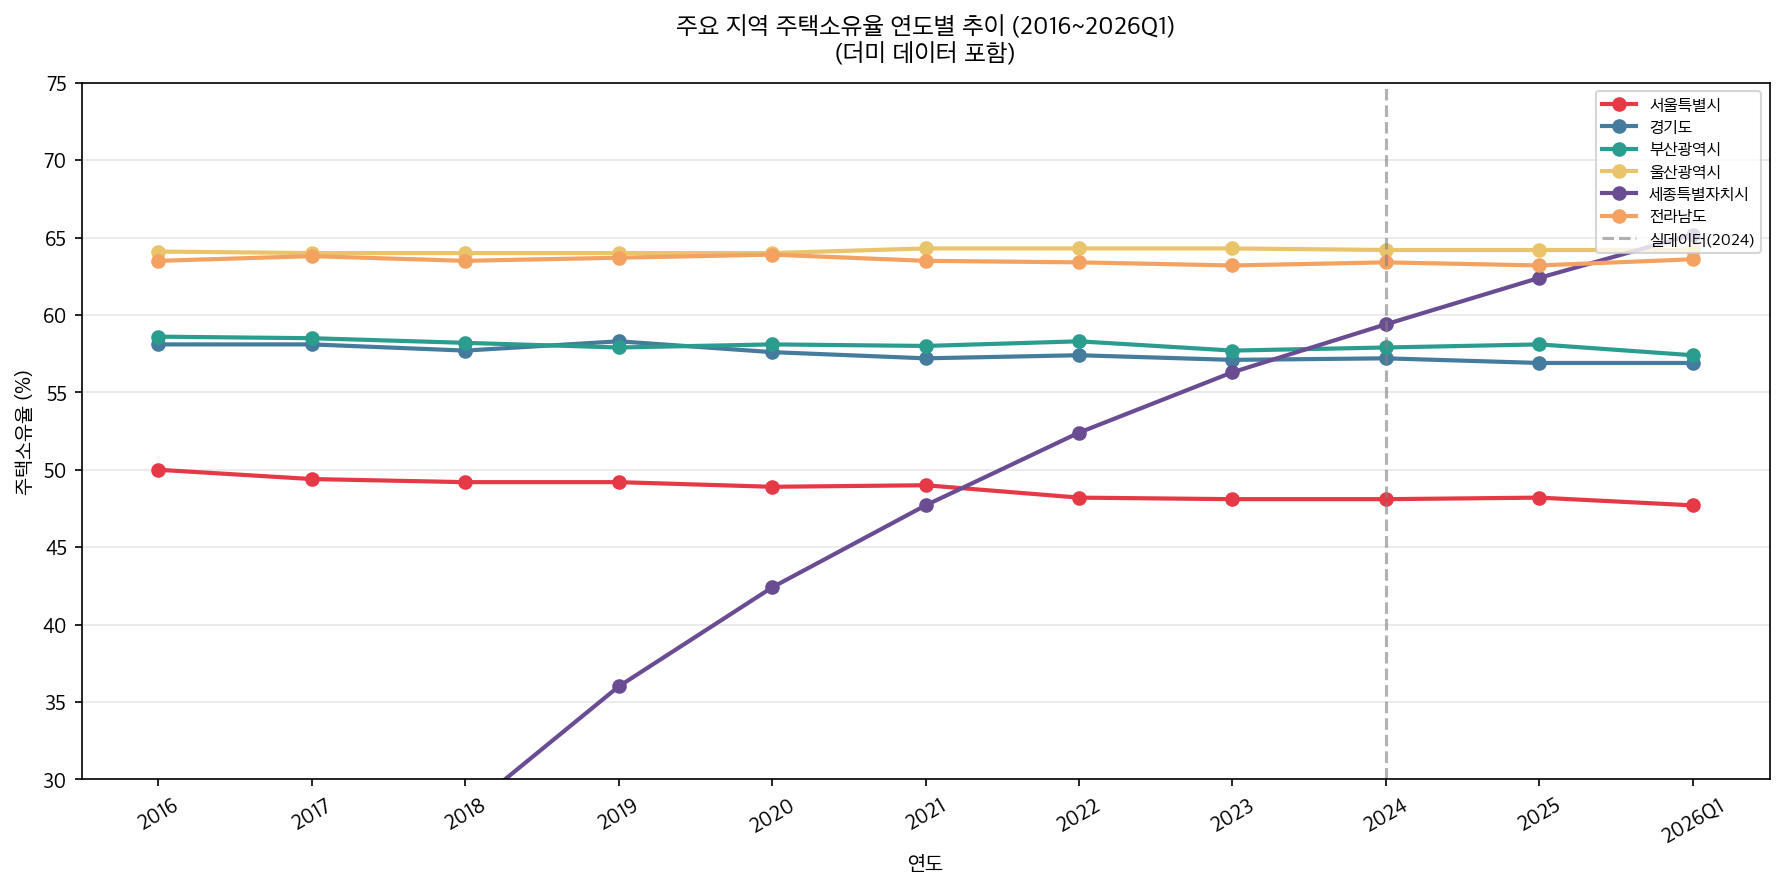
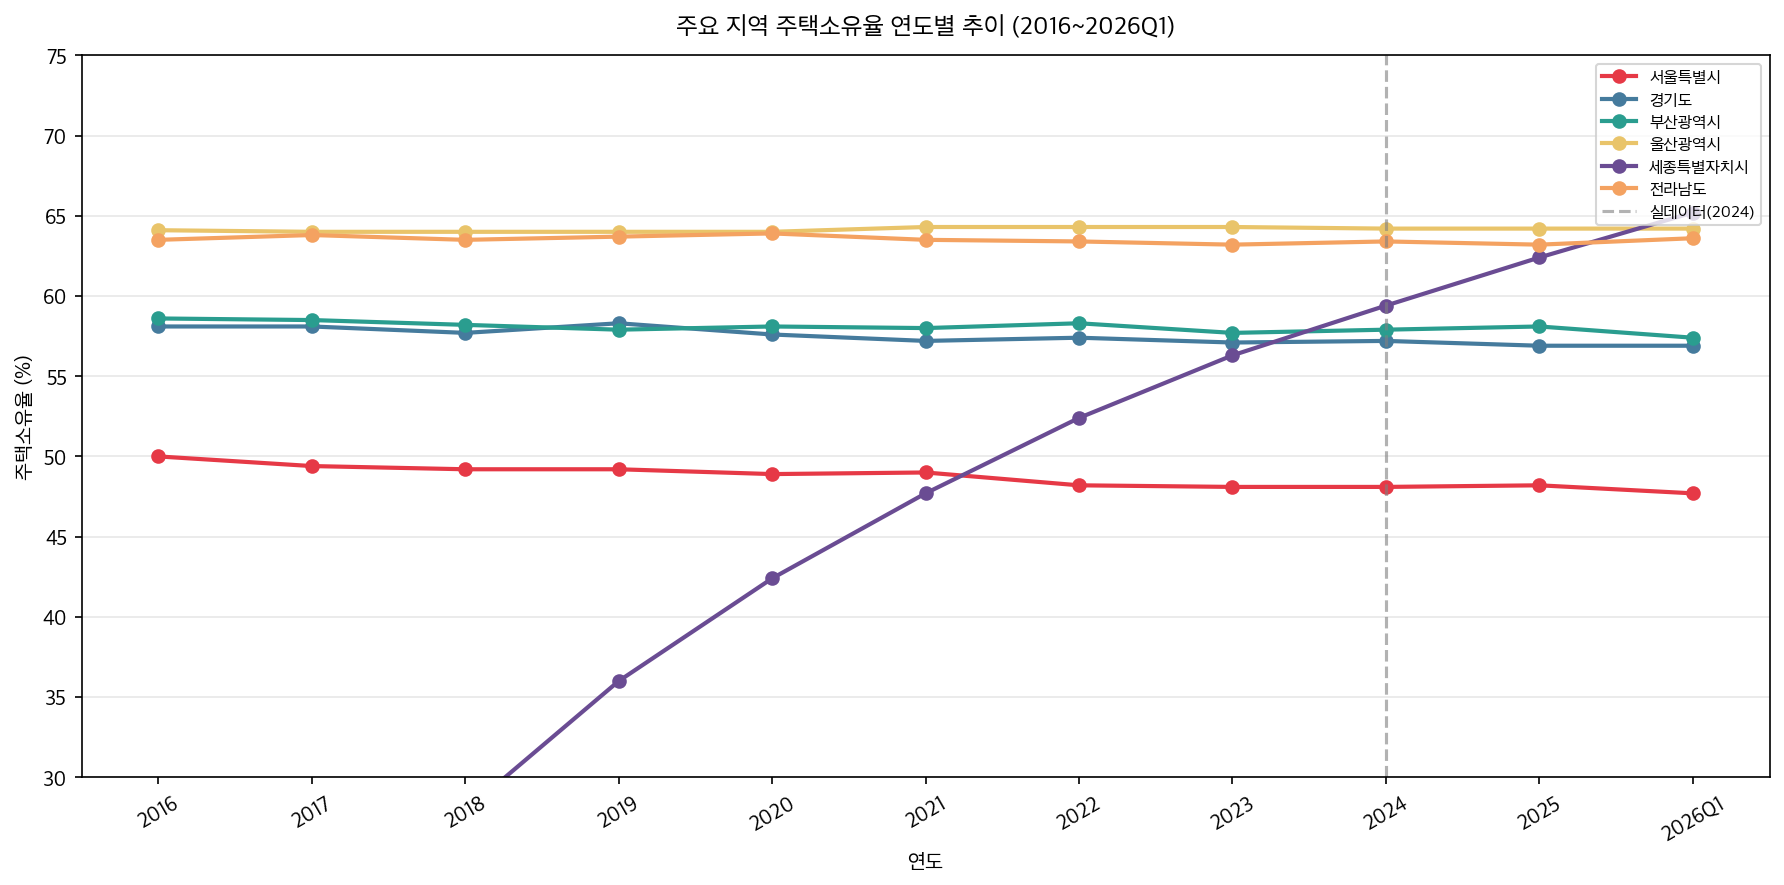
fix: 시각화 차트 제목에서 "더미 데이터" 문구 제거

diff --git a/housing/housing_eda.py b/housing/housing_eda.py
@@ -231,7 +231,7 @@ ax1.bar(x, merged["값_own"] / 1e6, label="주택소유", color="#457B9D", alpha
 ax1.bar(x, merged["값_no"]  / 1e6, bottom=merged["값_own"] / 1e6,
         label="무주택", color="#E07B54", alpha=0.85)
 ax1.set_ylabel("가구 수 (백만)")
-ax1.set_title("2016~2026Q1 전국 주택소유 vs 무주택 가구 수 추이\n(더미 데이터 포함)", pad=10)
+ax1.set_title("2016~2026Q1 전국 주택소유 vs 무주택 가구 수 추이", pad=10)
 ax1.legend()
 ax1.yaxis.set_major_formatter(plt.FuncFormatter(lambda v, _: f"{v:.1f}M"))
 ax2.plot(x, merged["소유율(%)"], marker="o", color="#2A9D8F", linewidth=2)
@@ -264,7 +264,7 @@ fig, ax = plt.subplots(figsize=(16, 8))
 sns.heatmap(hm, annot=True, fmt=".1f", cmap="RdYlGn", ax=ax,
             cbar_kws={"label": "소유율 (%)"}, linewidths=0.3,
             vmin=40, vmax=70)
-ax.set_title("2016~2026Q1 지역별 주택소유율 히트맵 (%)\n(더미 데이터 포함, 2024=실데이터)", pad=12)
+ax.set_title("2016~2026Q1 지역별 주택소유율 히트맵 (%)", pad=12)
 ax.set_xlabel("연도")
 ax.set_ylabel("")
 ax.tick_params(axis="x", rotation=30)
@@ -287,7 +287,7 @@ for reg, col in zip(HIGHLIGHT, COLORS):
 ax.axvline("2024", color="gray", linestyle="--", alpha=0.6, label="실데이터(2024)")
 ax.set_xlabel("연도")
 ax.set_ylabel("주택소유율 (%)")
-ax.set_title("주요 지역 주택소유율 연도별 추이 (2016~2026Q1)\n(더미 데이터 포함)", pad=10)
+ax.set_title("주요 지역 주택소유율 연도별 추이 (2016~2026Q1)", pad=10)
 ax.legend(loc="upper right", fontsize=8)
 ax.tick_params(axis="x", rotation=30)
 ax.grid(axis="y", alpha=0.3)
@@ -315,7 +315,7 @@ for age, col in zip(AGE_GROUPS, palette):
 ax.axvline("2024", color="gray", linestyle="--", alpha=0.6, label="실데이터")
 ax.set_xlabel("연도")
 ax.set_ylabel("주택소유율 (%)")
-ax.set_title("연령대별 주택소유율 연도별 추이 (2016~2026Q1)\n(더미 데이터 포함)", pad=10)
+ax.set_title("연령대별 주택소유율 연도별 추이 (2016~2026Q1)", pad=10)
 ax.legend(title="연령대", fontsize=8, loc="center right")
 ax.tick_params(axis="x", rotation=30)
 ax.grid(axis="y", alpha=0.3)
@@ -349,7 +349,7 @@ ax.fill_between(
 ax.axvline("2024", color="gray", linestyle="--", alpha=0.6)
 ax.set_xlabel("연도")
 ax.set_ylabel("주택소유율 (%)")
-ax.set_title("성별 주택소유율 연도별 추이 (2016~2026Q1)\n(더미 데이터 포함)", pad=10)
+ax.set_title("성별 주택소유율 연도별 추이 (2016~2026Q1)", pad=10)
 ax.legend()
 ax.tick_params(axis="x", rotation=30)
 ax.grid(axis="y", alpha=0.3)
@@ -404,7 +404,7 @@ for grp, col in zip(["청년층(30대 이하)","중장년층(50~60대)"], ["#E63
 ax.axvline("2024", color="gray", linestyle="--", alpha=0.6, label="실데이터")
 ax.set_xlabel("연도")
 ax.set_ylabel("주택소유율 (%)")
-ax.set_title("청년층 vs 중장년층 주택소유율 격차 추이 (2016~2026Q1)\n(더미 데이터 포함)", pad=10)
+ax.set_title("청년층 vs 중장년층 주택소유율 격차 추이 (2016~2026Q1)", pad=10)
 ax.legend()
 ax.tick_params(axis="x", rotation=30)
 ax.grid(axis="y", alpha=0.3)
@@ -513,7 +513,7 @@ bars = ax.bar(df_gap["연도"], df_gap["격차(남-여)"], color="#6A4C93", alph
 ax.axvline("2024", color="red", linestyle="--", alpha=0.5, label="실데이터")
 ax.set_xlabel("연도")
 ax.set_ylabel("남녀 소유율 격차 (pp)")
-ax.set_title("연도별 남녀 주택소유율 격차 추이 (2016~2026Q1)\n(더미 데이터 포함)", pad=10)
+ax.set_title("연도별 남녀 주택소유율 격차 추이 (2016~2026Q1)", pad=10)
 ax.tick_params(axis="x", rotation=30)
 ax.grid(axis="y", alpha=0.3)
 ax.legend()
@@ -528,7 +528,7 @@ hm_age = hm_age.reindex(index=age_order, columns=[str(y) for y in YEARS])
 fig, ax = plt.subplots(figsize=(14, 5))
 sns.heatmap(hm_age, annot=True, fmt=".1f", cmap="RdYlGn", ax=ax,
             cbar_kws={"label": "소유율 (%)"}, linewidths=0.4, vmin=5, vmax=75)
-ax.set_title("연령대 × 연도별 주택소유율 히트맵 (%) — 전국\n(더미 데이터 포함, 2024=실데이터)", pad=12)
+ax.set_title("연령대 × 연도별 주택소유율 히트맵 (%) — 전국", pad=12)
 ax.tick_params(axis="x", rotation=30)
 idx2024 = [str(y) for y in YEARS].index("2024")
 ax.add_patch(plt.Rectangle((idx2024, 0), 1, len(age_order),
